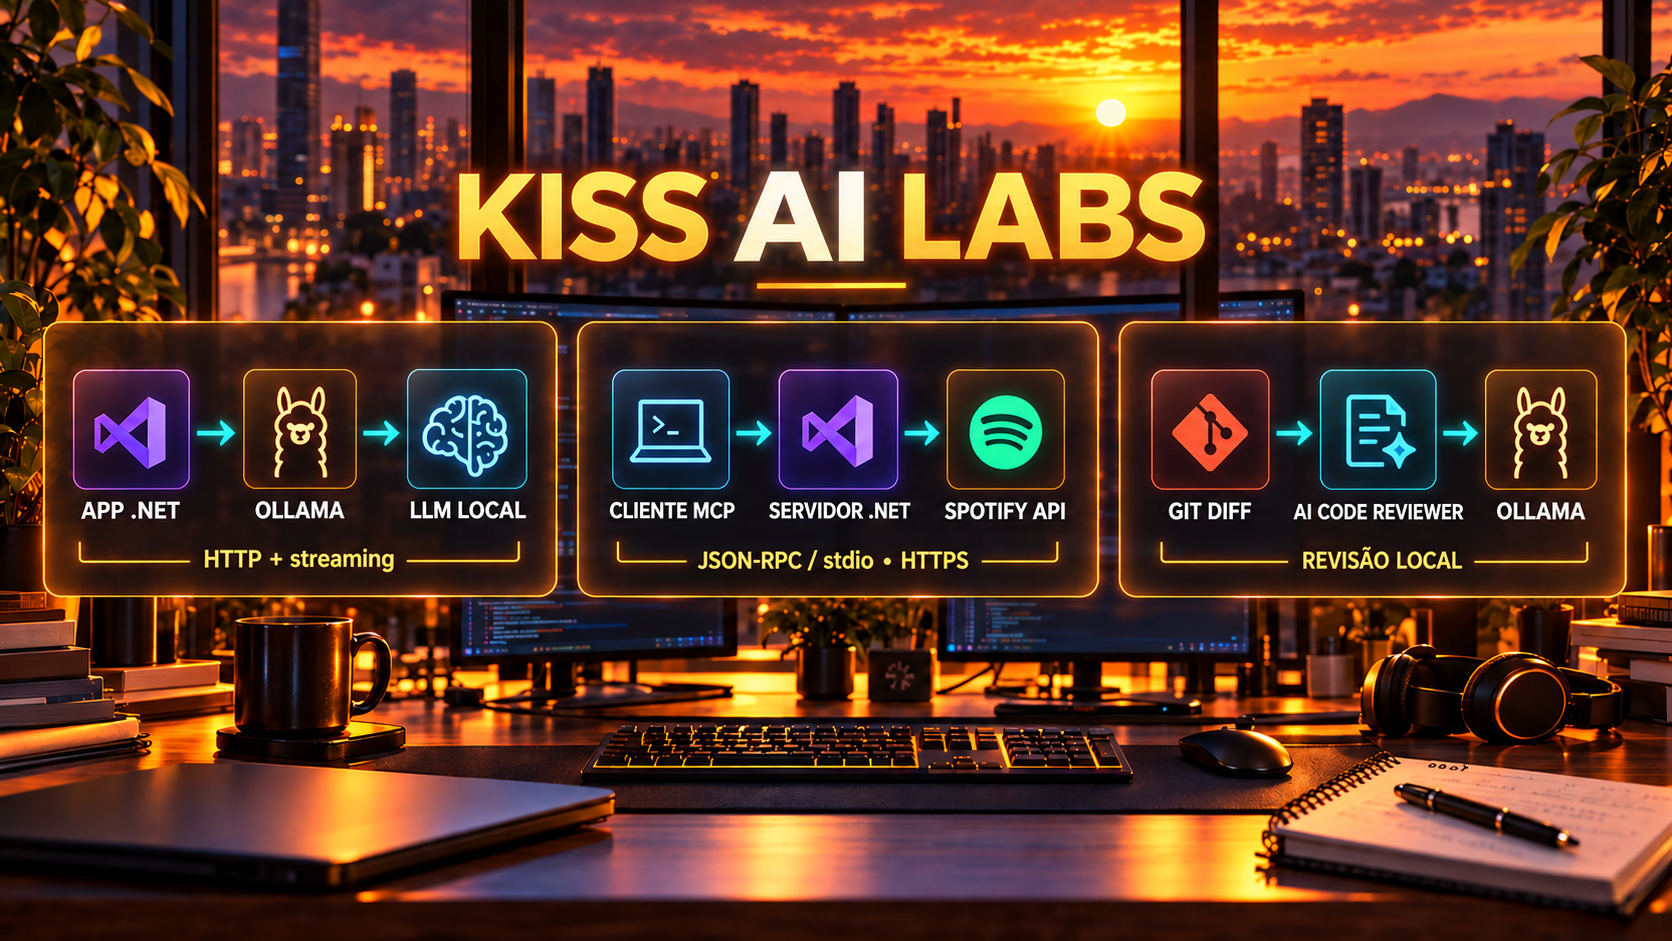
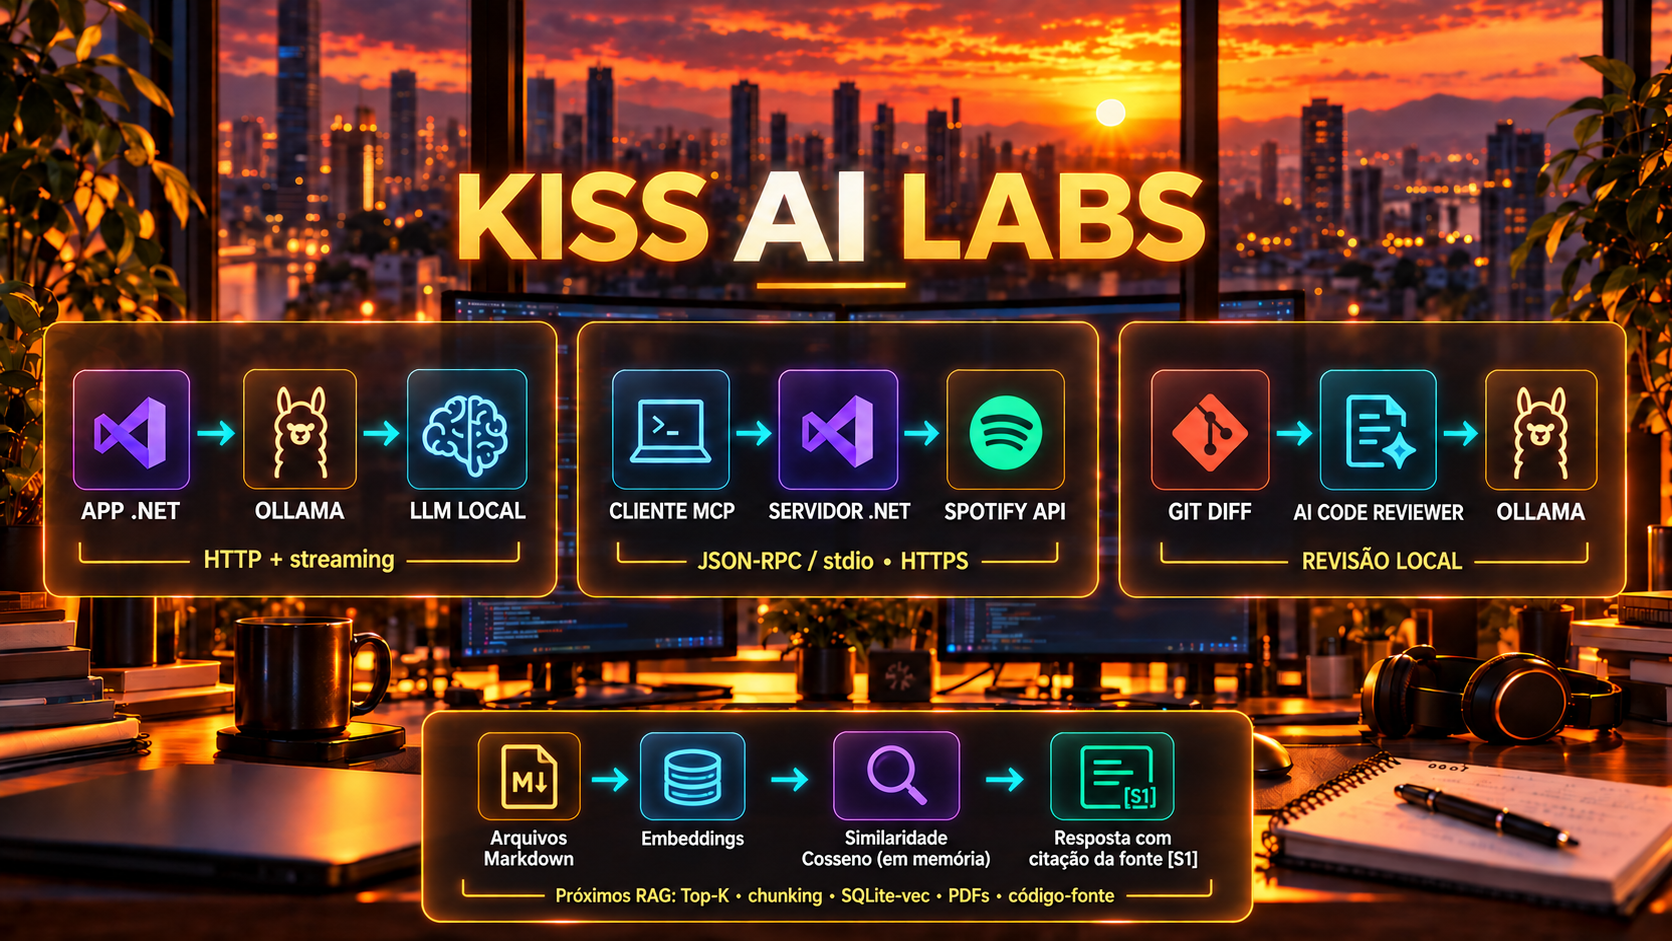
docs: extend KISS AI Labs cover with RAG roadmap

diff --git a/README.md b/README.md
@@ -1,6 +1,6 @@
 # KISS AI Labs
 
-![Mapa dos KISS AI Labs e fluxo do RAG local sem banco vetorial](assets/kiss-ai-labs-rag-local.svg)
+![Capa KISS AI Labs: projetos existentes e próximos laboratórios RAG](assets/kiss_ai_lab.png)
 
 Pequenos experimentos em **.NET 11** para estudar:
 
